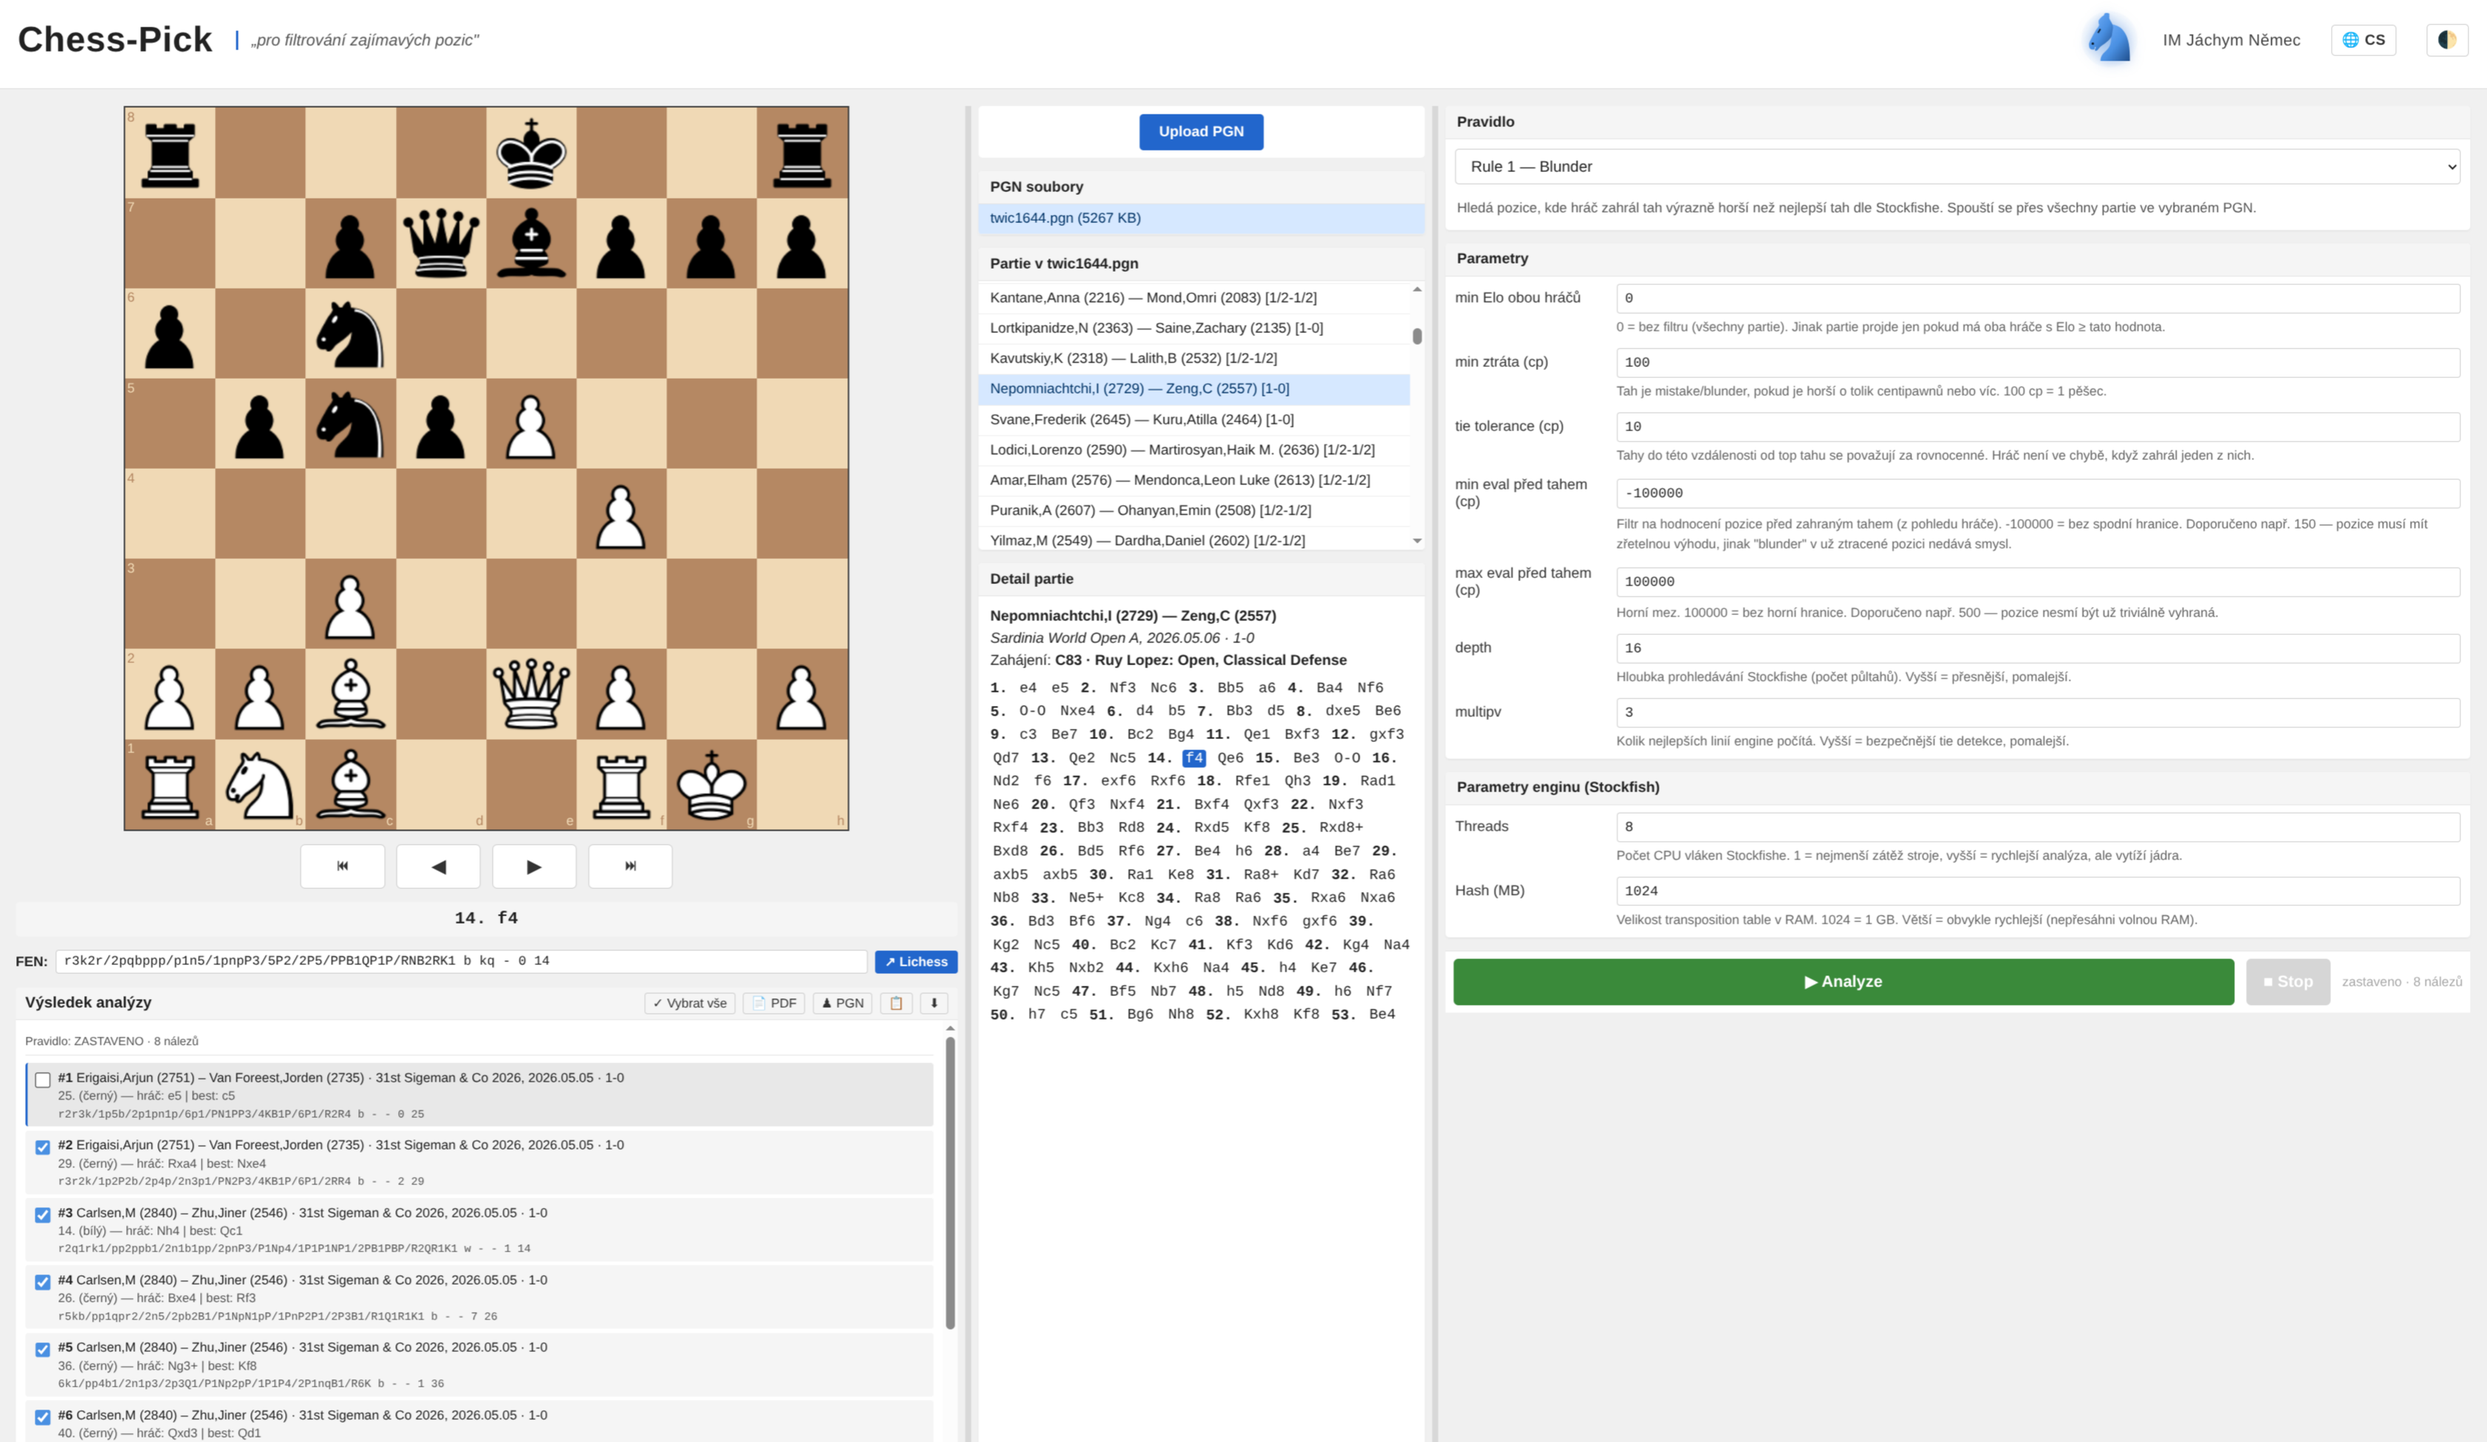
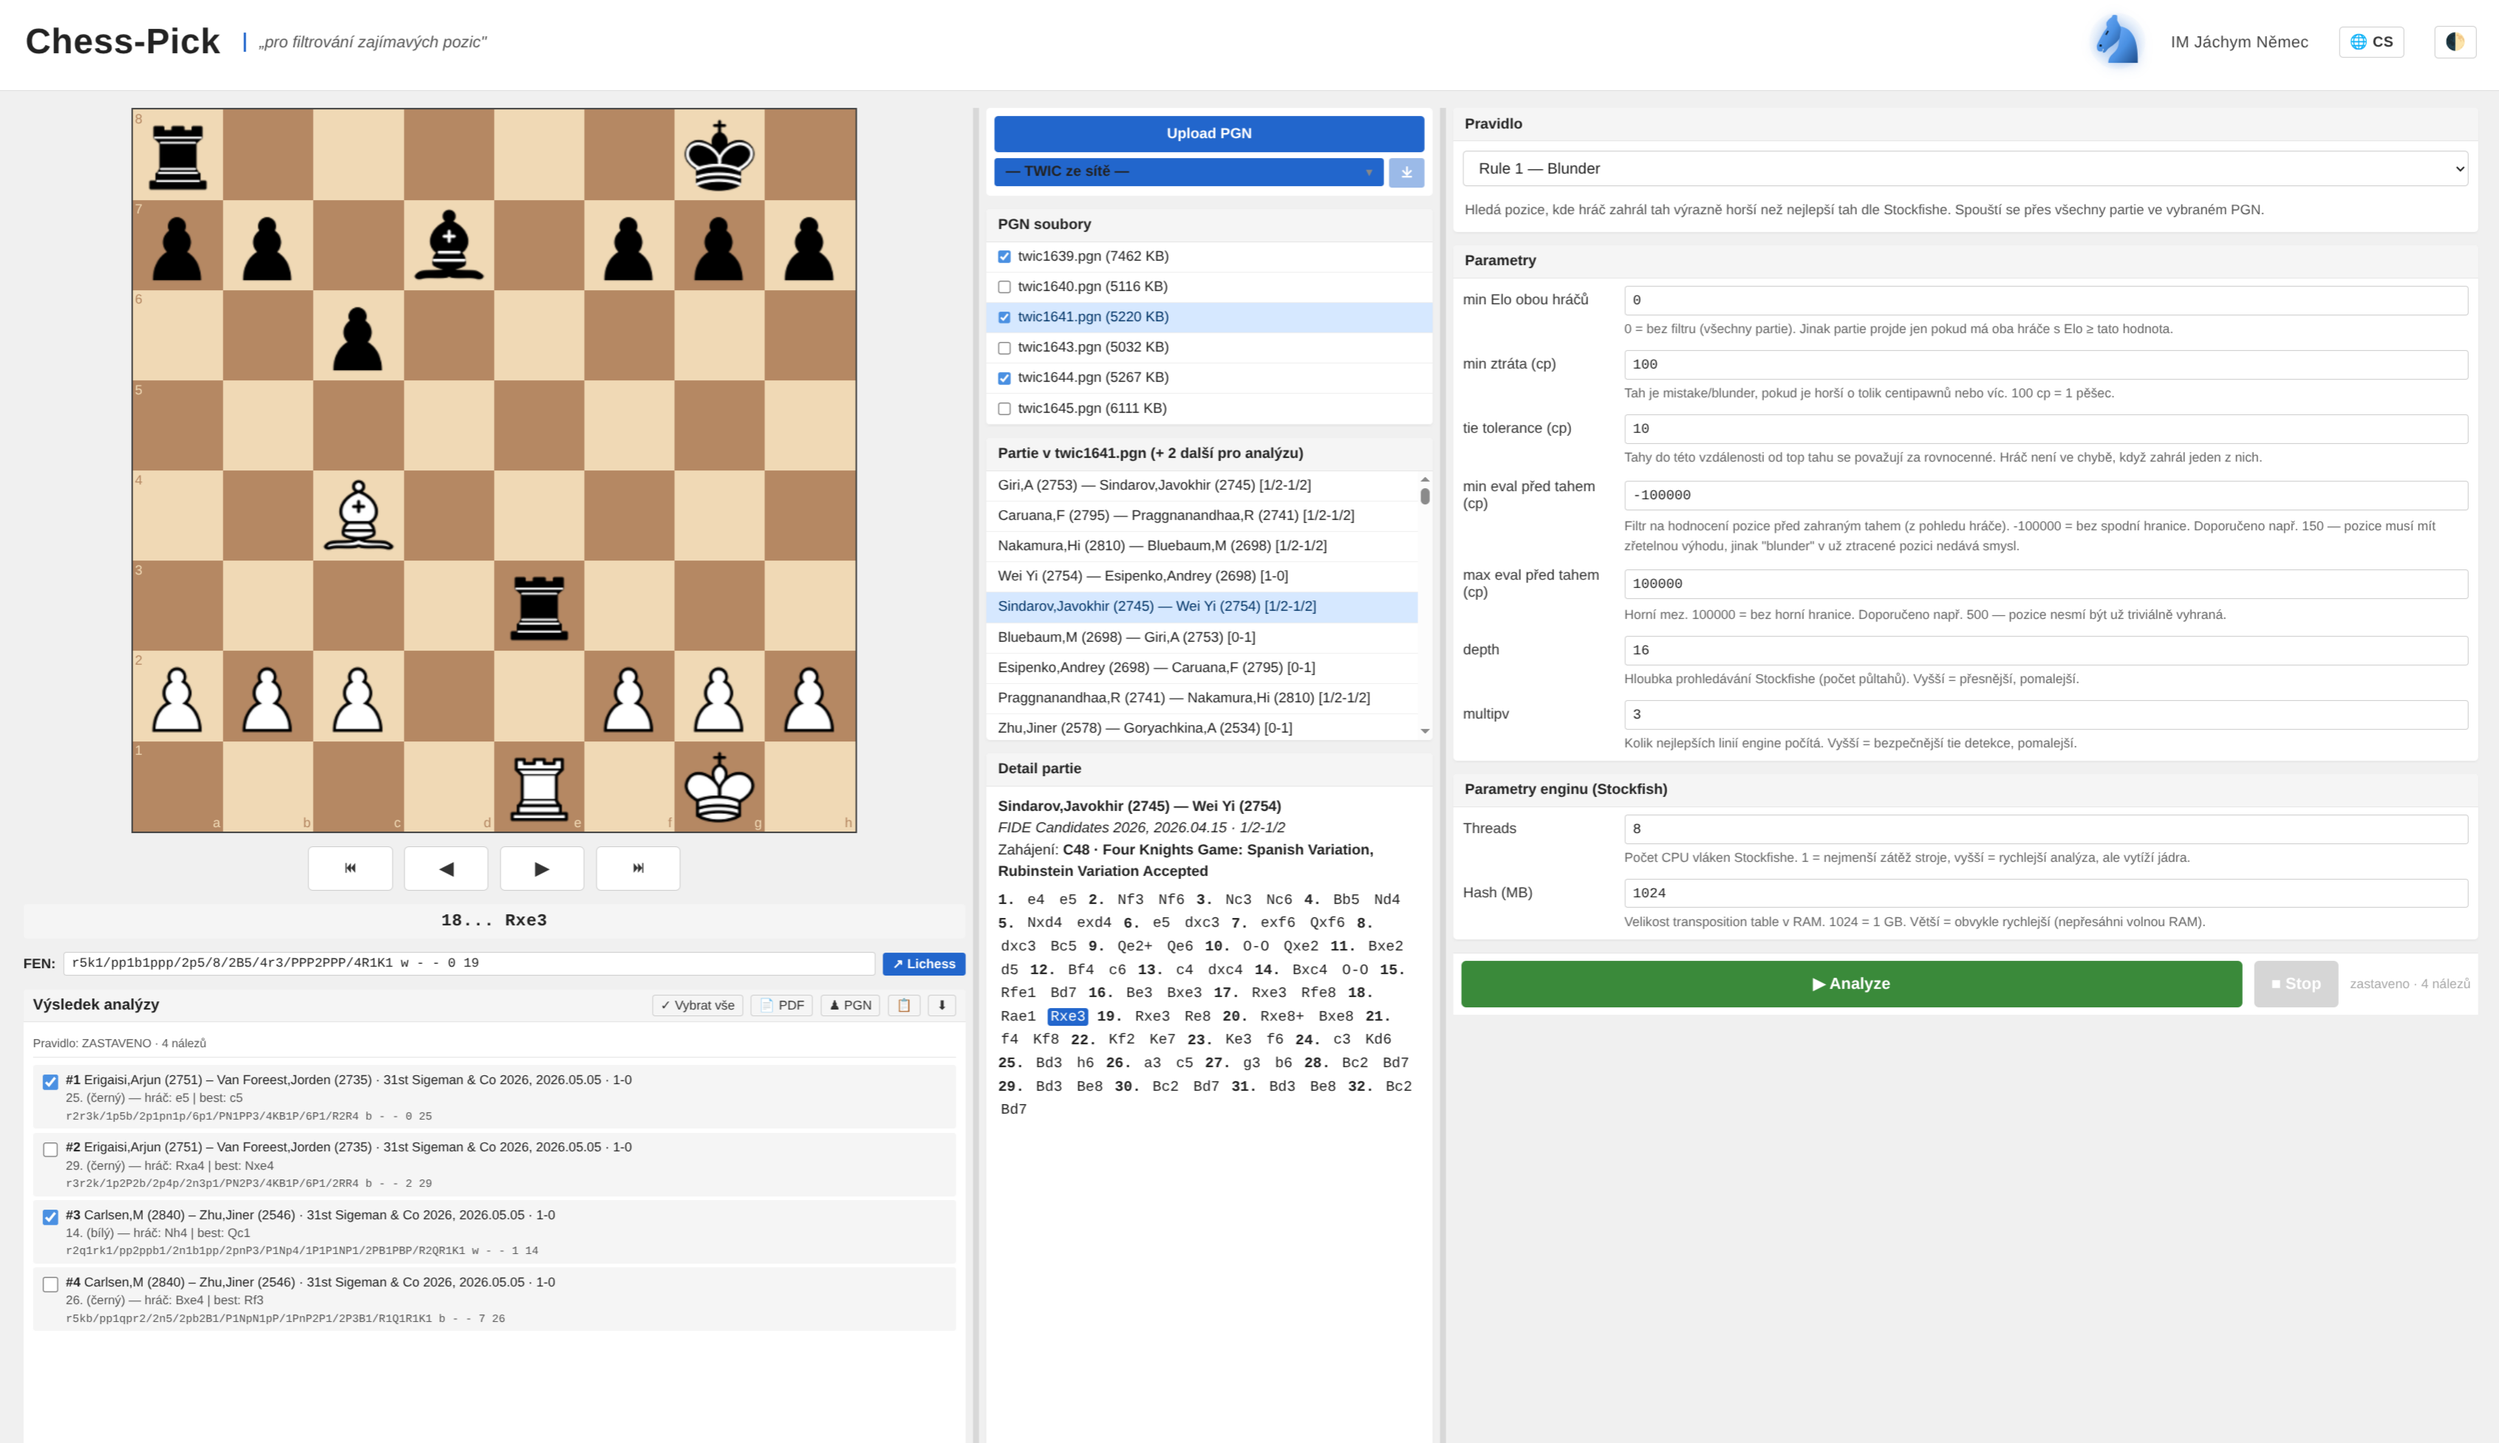
Document the TWIC picker and multi-PGN selection, refresh overview
Add a TWIC picker subsection with a screenshot showing the open
combo, the filter input, and several issues checked. Add a
"Vícenásobný PGN výběr" subsection explaining the checkbox-per-file
behavior and how Analyze fans out over multiple PGNs. Mention the
picker briefly in the "PGN soubory" install section so a recipient
sees the option early. Refresh the overview screenshot to match
the current UI (CS/EN toggle, checkboxes, all five rules).

diff --git a/README.md b/README.md
@@ -81,6 +81,9 @@ Zdroje partií:
 Místo ručního kopírování PGN do `twic/` lze taky použít **„Upload PGN"**
 v UI (prostřední sloupec nahoře) — soubor se uloží automaticky.
 
+Aplikace umí i **stáhnout TWIC vydání rovnou ze sítě** (viz [TWIC picker](#twic-picker))
+— nemusíš ručně chodit na theweekinchess.com.
+
 ## Spuštění
 
 Nejjednodušší — dvojklik na **`start.bat`** v kořeni projektu (nebo
@@ -106,8 +109,36 @@ Ctrl+C v terminálu server zastaví.
 
 - **Vlevo** — šachovnice, navigace po tazích (⏮ ◀ ▶ ⏭), FEN aktuální pozice,
   odkaz na Lichess analýzu, výstup analýzy + PDF / PGN export
-- **Uprostřed** — seznam PGN souborů z `twic/`, partie v souboru, detail partie
+- **Uprostřed** — Upload PGN / TWIC picker, seznam PGN souborů (se zaškrtávátky
+  pro výběr do analýzy), partie ve vybraném souboru, detail partie
 - **Vpravo** — výběr pravidla, parametry pravidla, ▶ Analyze / ■ Stop
+
+### TWIC picker
+
+Místo ručního stahování ZIP z theweekinchess.com má aplikace zabudovaný
+**TWIC picker** vedle „Upload PGN". Otevře combo s checkboxy:
+
+![TWIC picker](doc/img/twic.png)
+
+- **Filter** nahoře — napiš číslo (`1644`) nebo rok (`2026`), seznam se zúží
+- **Checkbox u řádku** — vyber 1 nebo víc TWIC vydání (`Ctrl/Shift` nepotřebuješ)
+- **⤓ tlačítko** vpravo — postupně stáhne všechny zaškrtnuté ZIP archivy
+  z theweekinchess.com, rozbalí .pgn dovnitř `twic/`, a poslední z nich
+  rovnou nahodí jako aktivní
+
+Index TWIC vydání (#920 — nejnovější) se cachuje na disk v
+`data/twic_index.json` na 6 hodin. Po výpadku sítě fallbackuje na poslední
+úspěšný snapshot — pořád můžeš pracovat.
+
+### Vícenásobný PGN výběr
+
+Každý PGN v prostředním sloupci má vlevo **checkbox**. Klik na jméno
+souboru ho aktivuje pro prohlížení (vlevo se objeví jeho partie) **a
+zároveň ho zaškrtne pro analýzu**. Pokud chceš analyzovat víc PGN
+souborů najednou, prostě je zaškrtni — Analyze pak projede sekvenčně
+přes všechny. V hlavičce výstupu se objeví prefix `PGN k/N [twic1640.pgn]`
+ať vidíš pokrok, a každý nález si pamatuje **z kterého PGN pochází**
+(klik na výsledek přepne viewer na ten správný soubor).
 
 ### Pravidla
 
